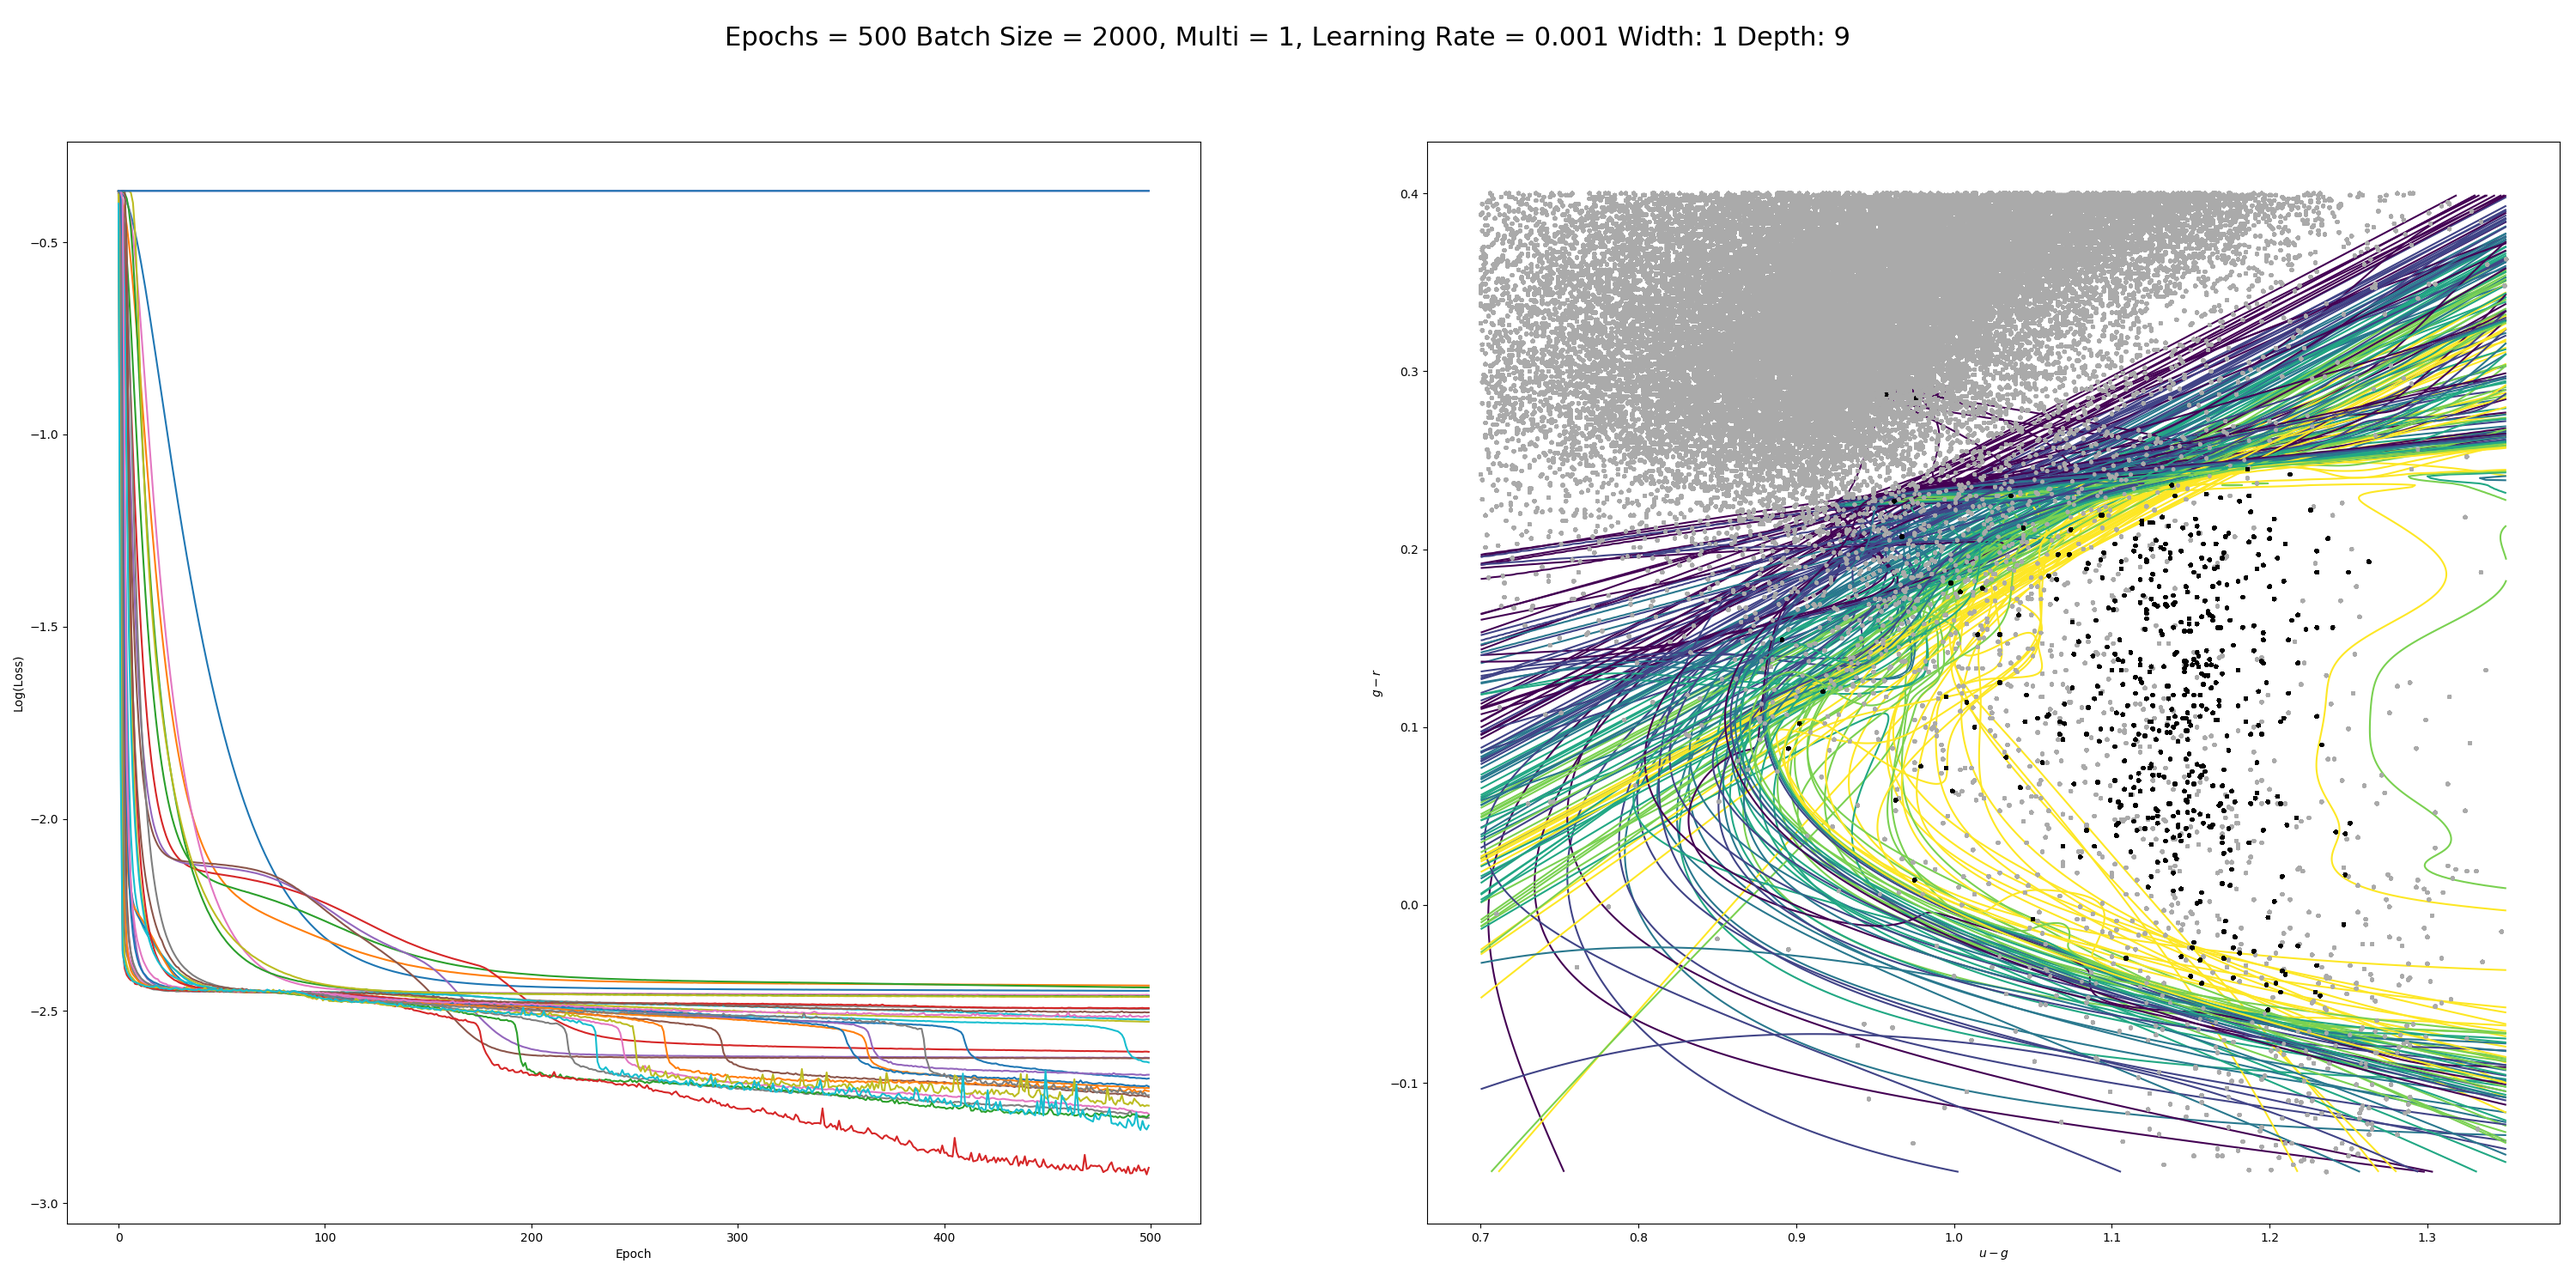
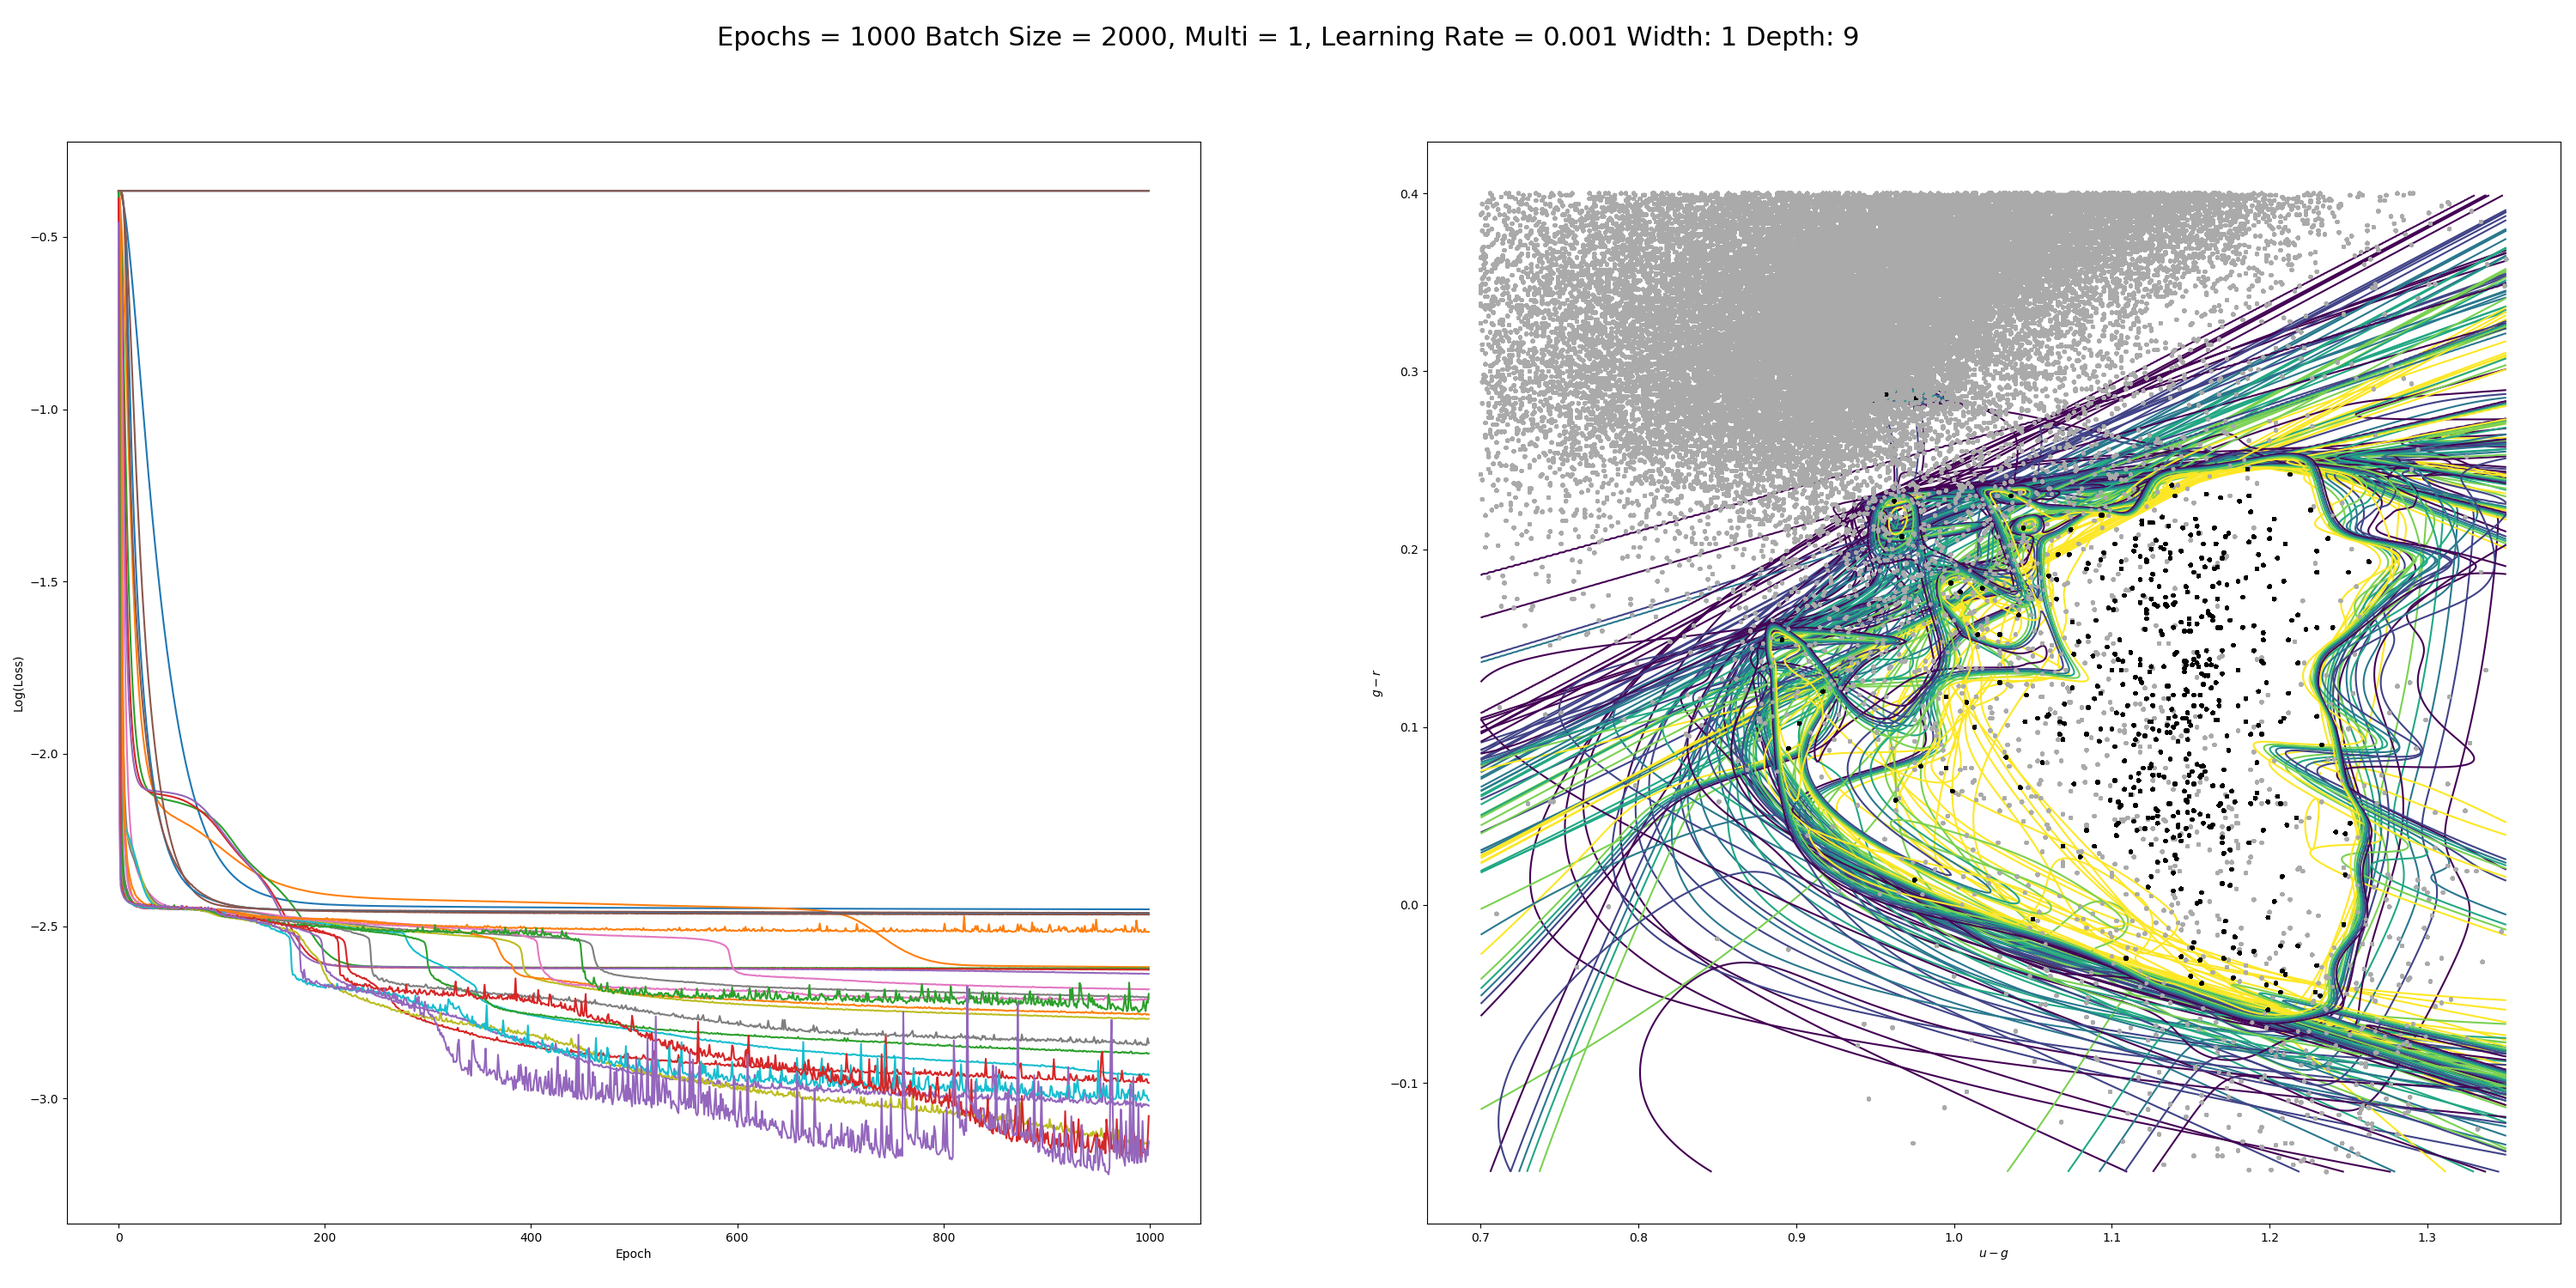
astro

diff --git a/TensorFlow/AstroMl/astroML_tf_depth_width_bias_study_noPlot.py b/TensorFlow/AstroMl/astroML_tf_depth_width_bias_study_noPlot.py
@@ -7,6 +7,8 @@ from keras.metrics import categorical_accuracy
 from matplotlib.animation import FuncAnimation
 from astroML.utils import completeness_contamination
 from astroML.utils import split_samples
+import matplotlib.pyplot as plt
+
 #Convert labels from label to CNTK output format, basically an array of 0's with a 1 in the position of the desired label so 9 = [0 0 0 0 0 0 0 0 0 1]
 def convertLabels(labels,samplesize,out):
     label = np.zeros((samplesize,out),dtype=np.float32)
@@ -73,9 +75,9 @@ sess = tf.Session(config=tf.ConfigProto(log_device_placement=True))
 keras.backend.tensorflow_backend._get_available_gpus()
 ############# Settings #####################
 
-LR = 0.0001
-Epochs = 1000
-BatchSize = 400
+LR = 0.001
+Epochs = 150
+BatchSize = 100
 Multip = 1
 
 #############################################################
@@ -91,9 +93,6 @@ testCont = []
 comp = []
 cont = []
 color = []
-X = np.loadtxt('AstroML_Data.txt')[:,[1,0]]
-y =  np.loadtxt('AstroML_Labels.txt')
-
 
 for depth in range(1,25,1):
     for width in range(1,25,1):
@@ -102,18 +101,19 @@ for depth in range(1,25,1):
         if width == 0 :
             width = 1
             
-        X_train = np.load('AstroML_X_Train_rebalance_1_split_0_7.npy')
-        X_test =  np.load('AstroML_X_Test_rebalance_1_split_0_7.npy')
-        y_train = np.load('AstroML_Y_Train_rebalance_1_split_0_7.npy')
-        y_test =  np.load('AstroML_Y_Test_rebalance_1_split_0_7.npy')
+        X_train = np.load('AstroML_X_Train_rebalance_1_split_0_7.npy')[:10000]
+        X_test =  np.load('AstroML_X_Test_rebalance_1_split_0_7.npy')[:10000]
+        y_train = np.load('AstroML_Y_Train_rebalance_1_split_0_7.npy')[:10000]
+        y_test =  np.load('AstroML_Y_Test_rebalance_1_split_0_7.npy')[:10000]
+        print(X_train.shape)
         X_train = X_train[:, [1,0]]  # rearrange columns for better 2-color results
         X_test = X_test[:, [1,0]]        
-    
         N_tot = y_train.shape[0]
         N_st = np.sum(y_train == 0)
         N_rr = N_tot - N_st
         N_plot = 5000 + N_rr
-    
+        plt.scatter(X_train[-N_plot:, 1],X_train[-N_plot:, 0], c=y_train[-N_plot:],s=12, lw=0, cmap=plt.cm.binary, zorder=2)
+        plt.show()
     	#%%
     
     	###########################################################

diff --git a/TensorFlow/AstroMl/astroML_tf_depth_width_bias_study.py b/TensorFlow/AstroMl/astroML_tf_depth_width_bias_study.py
@@ -99,8 +99,8 @@ fig.subplots_adjust(bottom=0.15, top=0.95, hspace=0.2,left=0.1, right=0.95, wspa
 ax_loss = fig.add_subplot(121)
 widtharr = [1,6,12,18,24]
 deptharr = [1,2,3,4,6,9]
-for depth in deptharr:
-    for width in widtharr:
+for depth in range(0,30,1):
+    for width in range(0,30,1):
 #for coll in range(3,4):
         print('Width:',width," Depth:",depth)
         if width == 0 :
